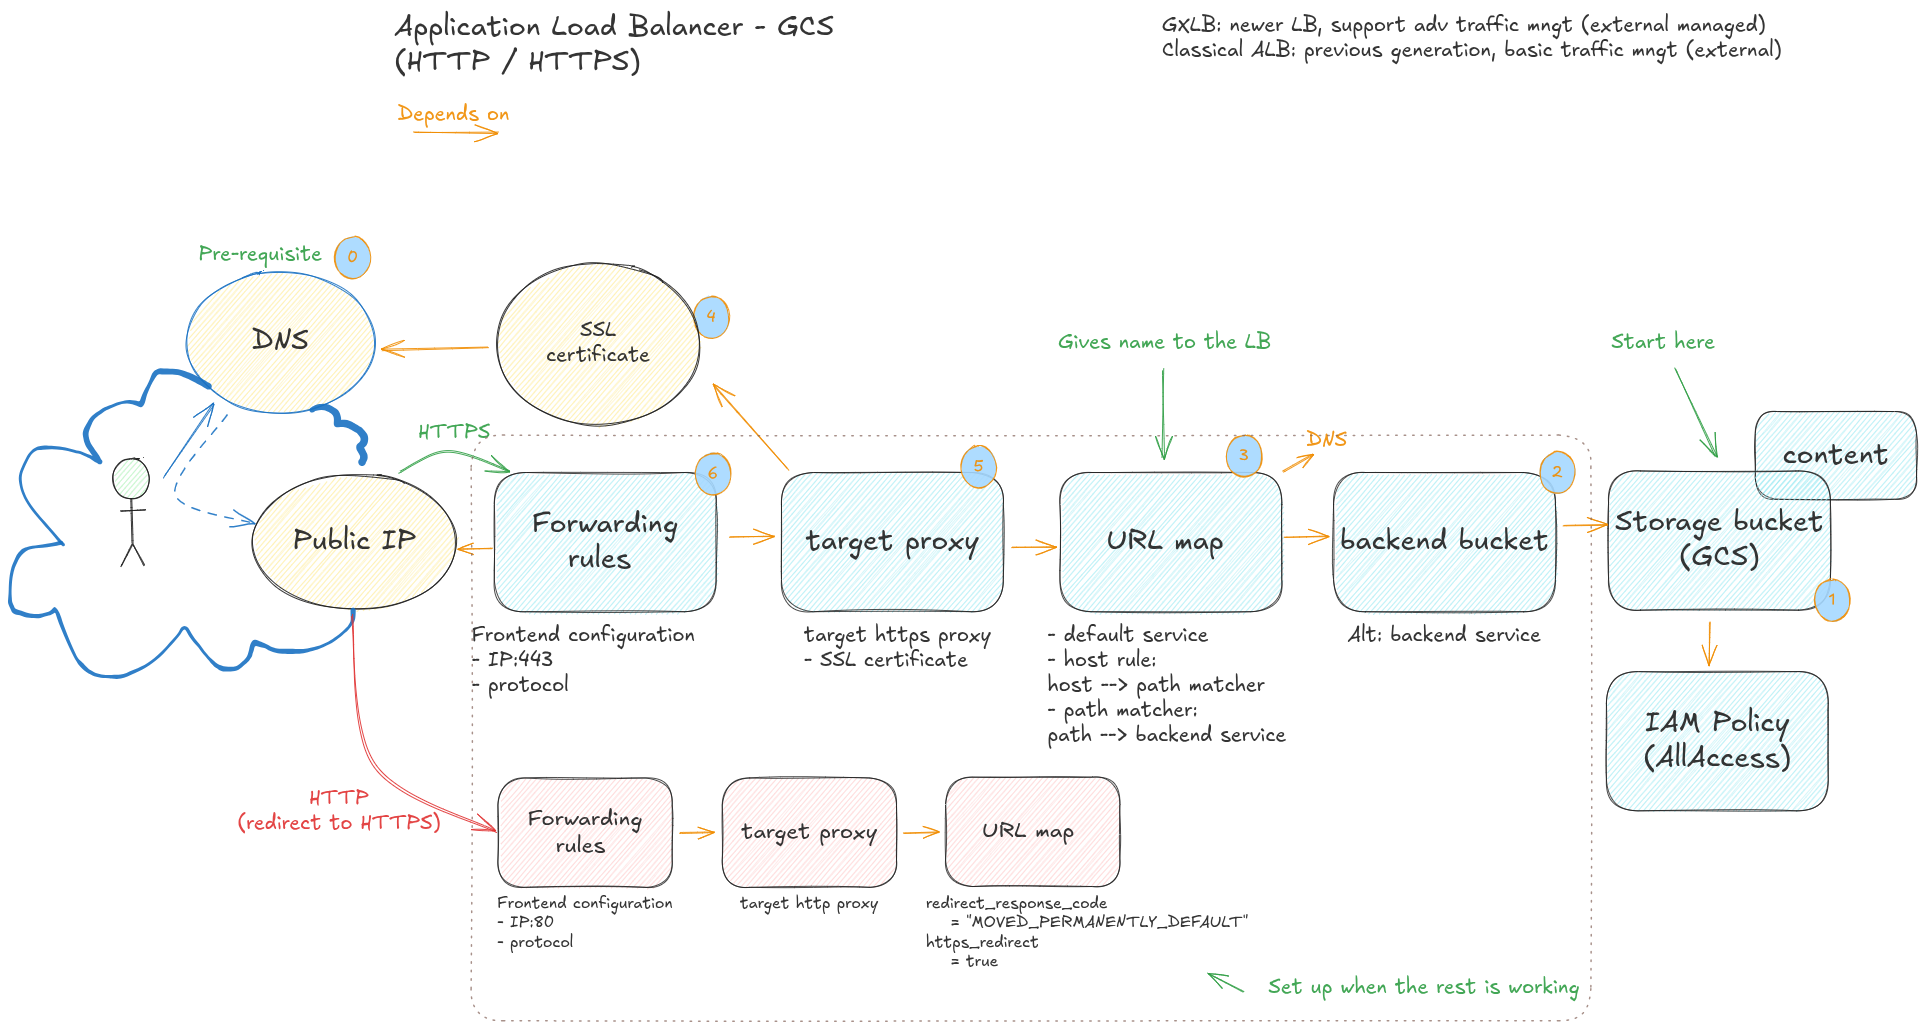
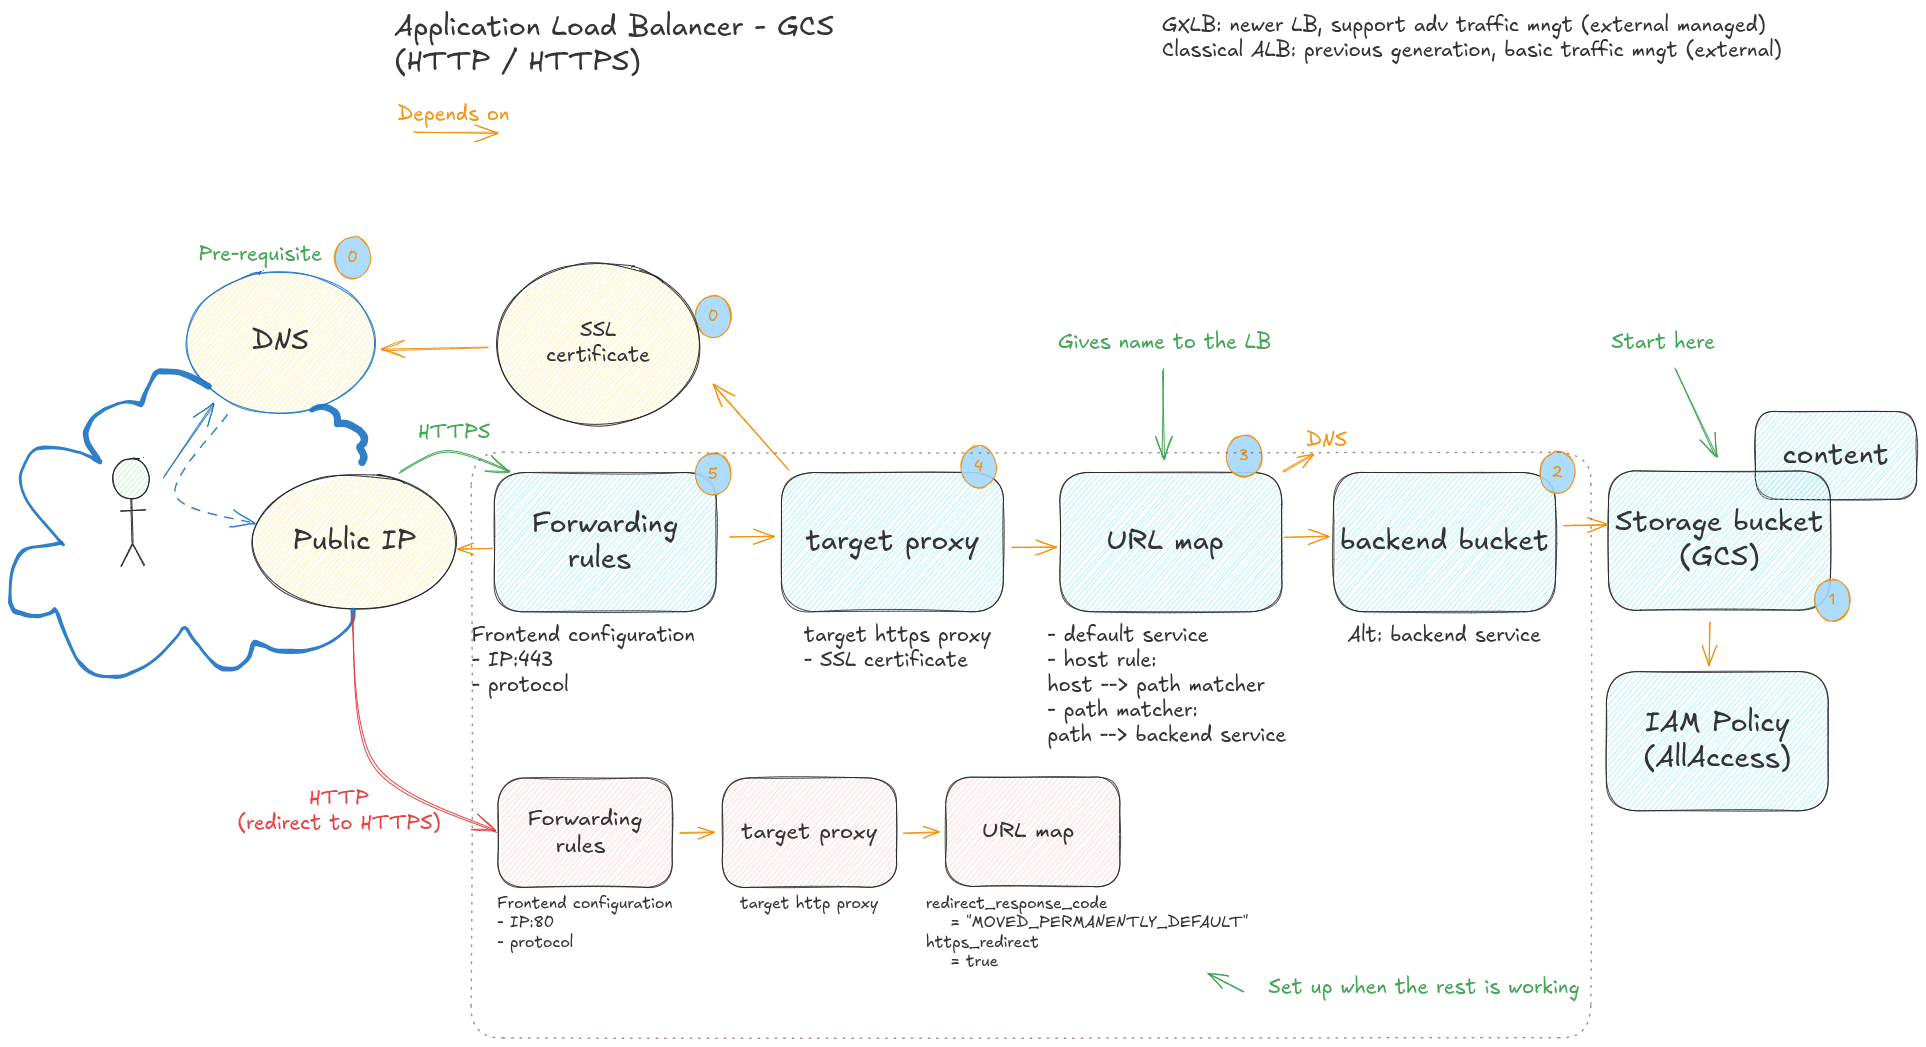
add resources for the end-to-end LB

diff --git a/README.md b/README.md
@@ -1,8 +1,10 @@
 # GCS exposed by  a load balancer in Terraform
+The load balancer is a central piece of the software defined network in Google Cloud. It's composed of many components. This repo shows how to install an external load balancer with a GCS bucket as the backend with Terraform.  
 
-The goal of this repo is to use terraform to install an external load balancer with a GCS bucket as the backend.   The main reason is learning and understanding each components  
+The main reason is learning and understanding each component which get hide in some modules.
+
 Google Cloud has extensive documentation  on how to design your infrastructure in GCP. The https://docs.cloud.google.com/architecture/framework is a good place to start.  
-There is a large repository of teTerraform  blueprints available at https://docs.cloud.google.com/docs/terraform/blueprints/terraform-blueprints  
+There is a large repository of Terraform  blueprints available at https://docs.cloud.google.com/docs/terraform/blueprints/terraform-blueprints  
 Specifically for the load balancer :  https://github.com/terraform-google-modules/terraform-google-lb  
 
 ## Overview over  resources to build   
@@ -14,13 +16,102 @@ Specifically for the load balancer :  https://github.com/terraform-google-module
 - Running scripts: Google Cloud Shell is an easy way to run test terraform with both gcloud, and terraform available
 - basic knowledge of terraform
 
-![Starting Cloud Shell](assets/cloudshell.png)
+* We create a Public IP and public  SSL-certificate in the start of the terraform script. Refer to documentation if you want to use your own.  
+Note: the public IP must be in the same project that the LB (can be moved from another project if necessary).  
+See below to create a managed DNS zone, with sub domains linked to an IP
 
 ## setup your environment
-Note: hardcoded values should be managed with  envirronments variables , terraform.tfvars or other solutions.
 
-* teeraform resources defined in infra/
-* set you project ID and  project number in the  config.tf file
+* terraform resources are defined in infra/
+* set your project ID and  project number in the  config.tf file or use the terraform.tf
 * `terraform init`
 * `terraform plan` to see what will be created and `terraform apply` to create the actual infrastructure.
+You must authenticate when running outside of Cloud Shell: `gcloud auth login` and `gcloud auth application-default login`  
 
+Navigate the Cloud Console to explore the different components  illustrated over.
+
+
+## setup your network resources 
+
+It may be an idea to have a dedicated project to manage some of the network resources like DNS.  
+Note that some of these resources like the SSL certificate take time to create.  
+If you are managing a lot of sites, look at the Google [Cloud Certificate manager](https://docs.cloud.google.com/certificate-manager/docs/overview).  
+
+### Enable APIs
+
+```sh
+resource "google_project_service" "gcp_services" {
+  project = var.project_id
+  for_each = toset([
+    "dns.googleapis.com",
+    "compute.googleapis.com",
+  ])
+  service            = each.key
+  disable_on_destroy = false
+}
+```
+### Create the Cloud DNS resources
+
+The second resource is not strictly  required. a TXT entry make it easy to test.
+
+```sh
+resource "google_dns_managed_zone" "demo-zone" {
+  project     = local.project_id
+  name        = "demo-dns-zone"
+  dns_name    =  <your domain here>
+  description = "Demo DNS zone "
+  visibility  = "public"
+
+  dnssec_config {
+    state = "off"
+  }
+
+  # off by default, here for reference and explicit
+  #cloud_logging_config {
+  #  enable_logging = false
+  #}
+
+  depends_on = [google_project_service.gcp_services]
+}
+
+# TTL set low to get quick feedback when testing
+# test with f
+# dig test.<your-domain> TXT +short
+resource "google_dns_record_set" "txt-demo" {
+  project      = local.project_id
+  name         = "demo.${google_dns_managed_zone.demo-zone.dns_name}"
+  managed_zone = google_dns_managed_zone.demo-zone.name
+  type         = "TXT"
+  ttl          = 60
+
+  rrdatas    = ["\"hello from demo\""]
+  depends_on = [google_dns_managed_zone.demo-zone]
+}
+```
+### create  SSL certificate, the public IP and the DNS record for it
+
+```sh
+
+data "google_compute_global_address" "demo-ip" {
+  name       = "demo-ip"
+  project    = <the project where the IP is created>
+  depends_on = [google_project_service.gcp_services["compute.googleapis.com"]]
+}
+
+
+resource "google_dns_record_set" "a_demo" {
+  project      = local.project_id
+  name         = "demo.${google_dns_managed_zone.demo-zone.dns_name}"
+  managed_zone = google_dns_managed_zone.demo-zone.name
+  type         = "A"
+  ttl          = 300
+
+  rrdatas = [data.google_compute_global_address.demo-ip.address]
+  depends_on = [
+    google_dns_managed_zone.demo-zone,
+    google_project_service.gcp_services["dns.googleapis.com"],
+    data.google_compute_global_address.demo-ip
+  ]
+}
+
+```
